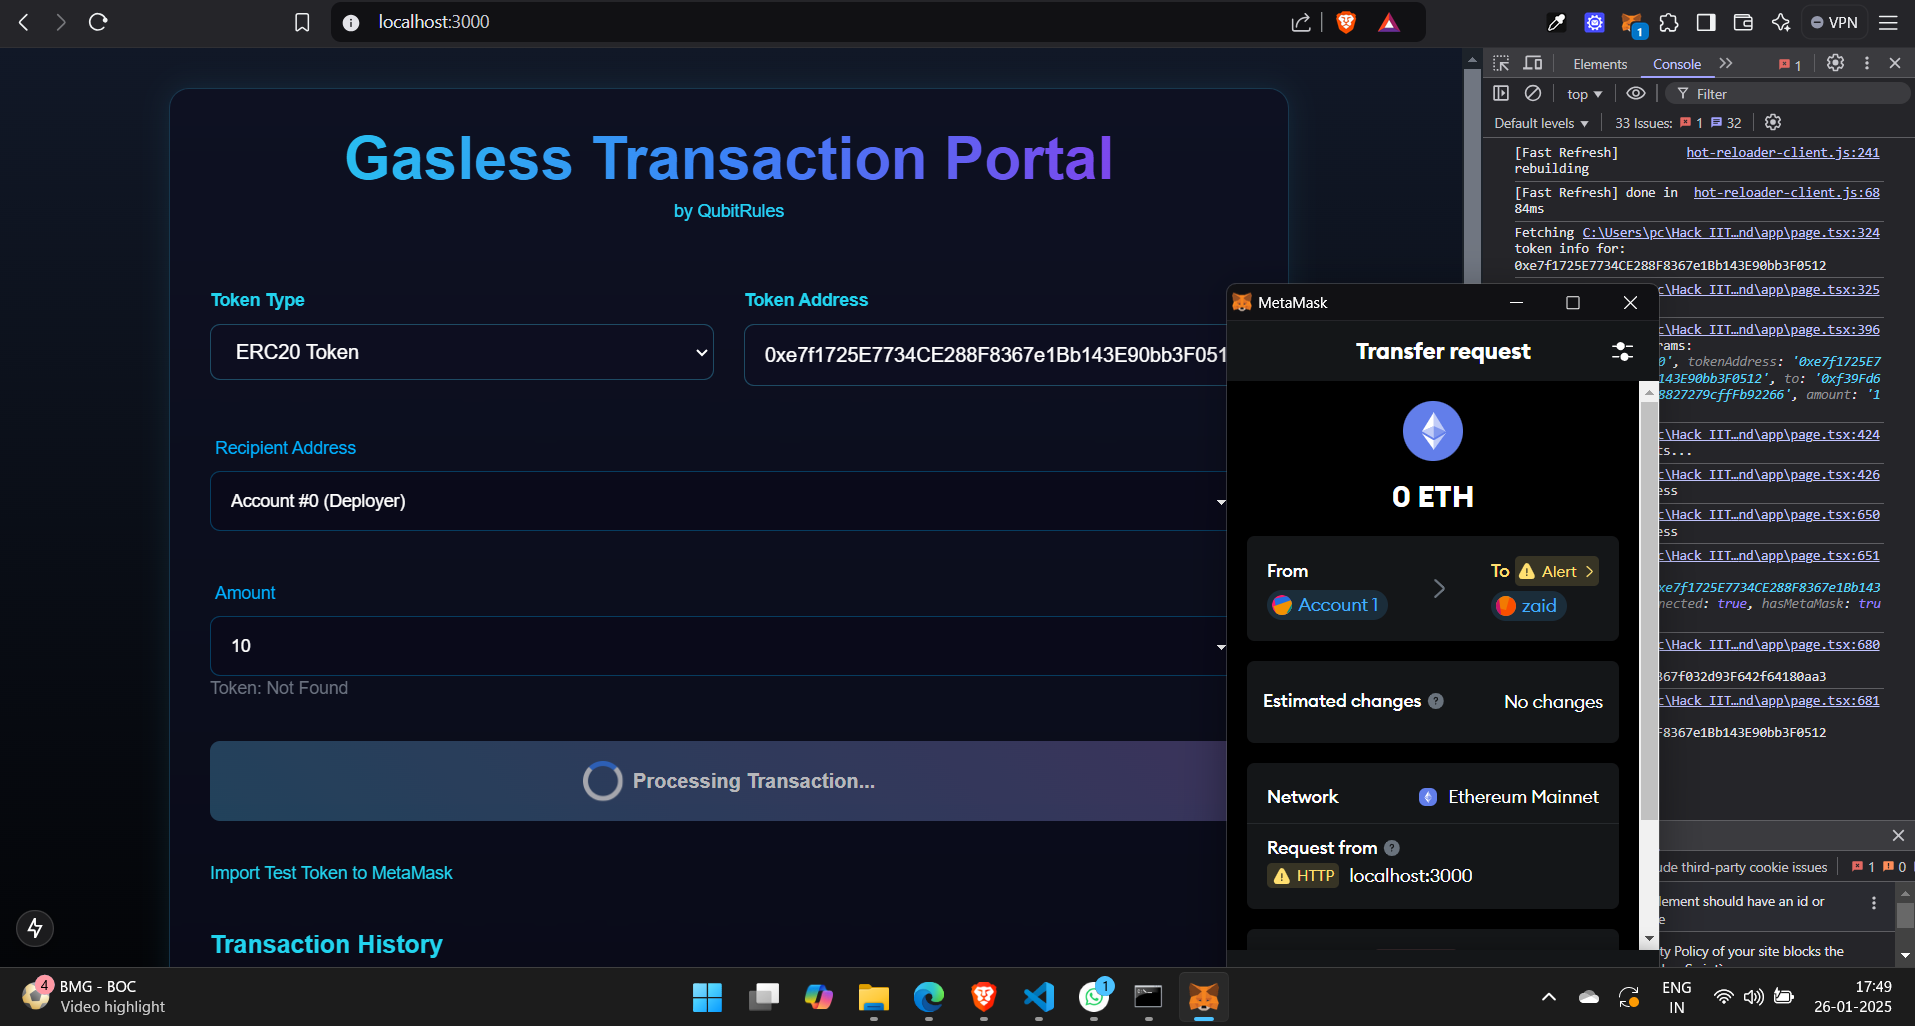
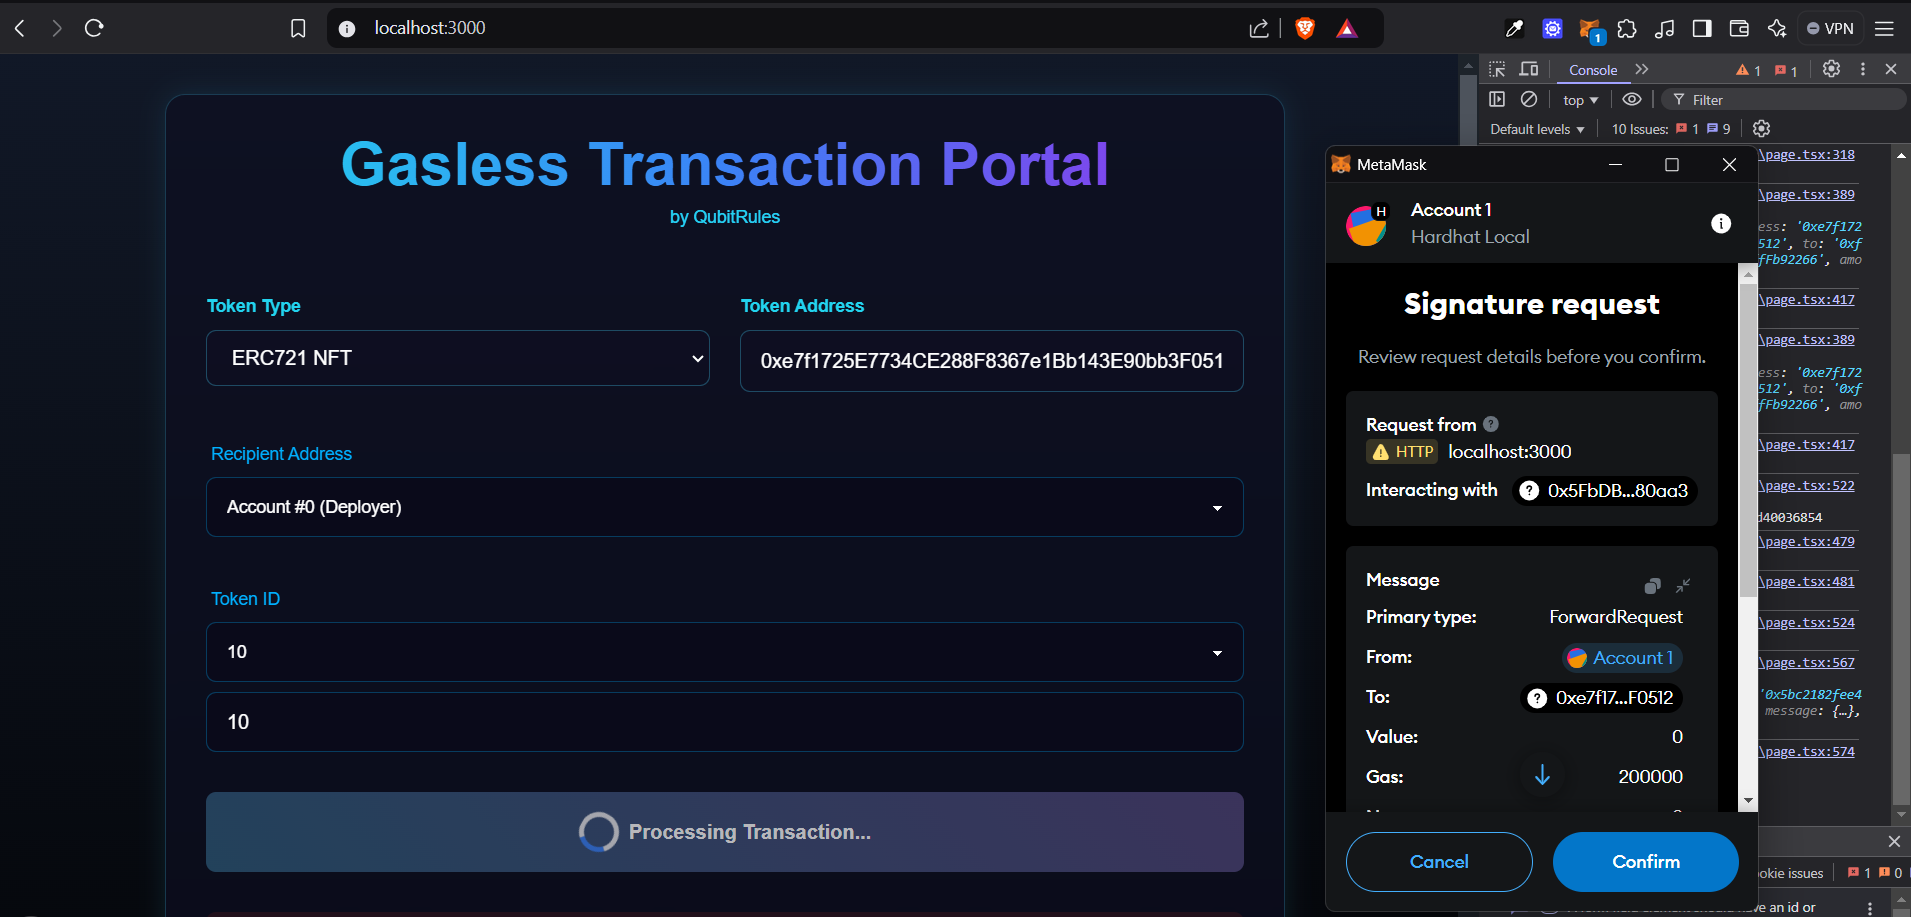
refactor: enhance token approval process for ERC20 and ERC721, improve error handling, and clean up console logs

diff --git a/frontend/app/page.tsx b/frontend/app/page.tsx
@@ -453,6 +453,22 @@ export default function RelayPage() {
         const value = ethers.parseUnits(amount, tokenInfo.decimals || 18).toString();
         data = iface.encodeFunctionData("transfer", [to, value]);
       } else {
+        const tokenContract = new ethers.Contract(
+          tokenAddress,
+          ERC721_ABI,
+          provider
+        );
+
+        const owner = await tokenContract.ownerOf(tokenId);
+        if (owner.toLowerCase() !== userAddress.toLowerCase()) {
+          throw new Error(`You don't own token #${tokenId}`);
+        }
+
+        const approved = await approveForwarder();
+        if (!approved) {
+          throw new Error("NFT approval required");
+        }
+
         data = iface.encodeFunctionData("transferFrom", [userAddress, to, tokenId]);
       }
 
@@ -625,68 +641,65 @@ export default function RelayPage() {
   };
   const approveForwarder = async () => {
     console.log("Starting token approval process");
-    console.log("Current state:", {
-      tokenAddress,
-      connected,
-      hasMetaMask: !!window.ethereum
-    });
-
+    
     if (!window.ethereum || !connected || !tokenAddress) return false;
-
     try {
-      if (!window?.ethereum) {
-        throw new Error("MetaMask not found");
-      }
-      
       const provider = new ethers.BrowserProvider(window.ethereum);
       const signer = await provider.getSigner();
-      
-     
       const forwarderAddress = process.env.NEXT_PUBLIC_FORWARDER_ADDRESS;
+      
       if (!forwarderAddress || !ethers.isAddress(forwarderAddress)) {
         throw new Error("Invalid forwarder address");
       }
-
-
-      const tokenContract = new ethers.Contract(
-        ethers.getAddress(tokenAddress), // ensure checksummed address
-        ERC20_ABI,
-        signer
-      );
-
-      console.log("Approving forwarder:", forwarderAddress);
-      console.log("Token address:", tokenAddress);
-
-      const tx = await tokenContract.approve(
-        ethers.getAddress(forwarderAddress),
-        ethers.MaxUint256,
-        {
-          gasLimit: 300000
+  
+      if (tokenType === "ERC20") {
+        const tokenContract = new ethers.Contract(
+          ethers.getAddress(tokenAddress),
+          ERC20_ABI,
+          signer
+        );
+        const tx = await tokenContract.approve(
+          forwarderAddress,
+          ethers.MaxUint256,
+          { gasLimit: 300000 }
+        );
+        await tx.wait();
+      } else {
+        // ERC721 approval
+        const tokenContract = new ethers.Contract(
+          ethers.getAddress(tokenAddress),
+          [
+            ...ERC721_ABI,
+            "function setApprovalForAll(address operator, bool approved) external"
+          ],
+          signer
+        );
+        
+        // Check if already approved
+        const isApproved = await tokenContract.isApprovedForAll(
+          await signer.getAddress(),
+          forwarderAddress
+        );
+        
+        if (!isApproved) {
+          const tx = await tokenContract.setApprovalForAll(
+            forwarderAddress,
+            true,
+            { gasLimit: 300000 }
+          );
+          await tx.wait();
         }
-      );
-
-      console.log("Approval transaction details:", {
-        forwarderAddress,
-        tokenAddress,
-        gasLimit: 300000
-      });
-      console.log("Approval transaction sent:", tx.hash);
-      const receipt = await tx.wait();
-      console.log("Approval confirmed:", receipt.transactionHash);
-
+      }
+      
       showAlert('success', 'Token approval successful');
       return true;
     } catch (error: any) {
-      console.error("Approval error details:", {
-        message: error.message,
-        code: error.code,
-        data: error.data
-      });
-      handleError(error);
+      console.error("Approval error:", error);
+      showAlert('error', `Approval failed: ${error.message}`);
       return false;
     }
   };
-
+  
   const importTestToken = async () => {
     console.log("Starting token import process...");
     

diff --git a/README.md b/README.md
@@ -170,9 +170,7 @@ npx hardhat run scripts/deploy.ts --network localhost
 - [ ] Gas price oracle integration
 - [ ] More token standards support
 - [ ] Advanced transaction monitoring
-![Gasless Transaction Portal Image](docs/img0.png)
-![Gasless Transaction Portal Image](docs/img1.png)
-![Gasless Transaction Portal Image](docs/img2.png)
+
 ## 📄 License
 
 MIT License - see [LICENSE](LICENSE) for details
